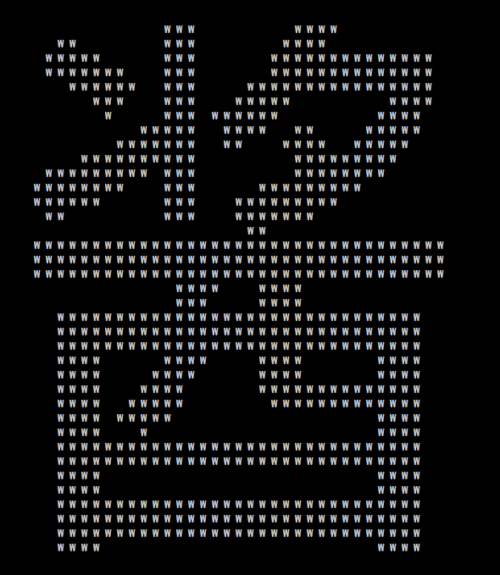
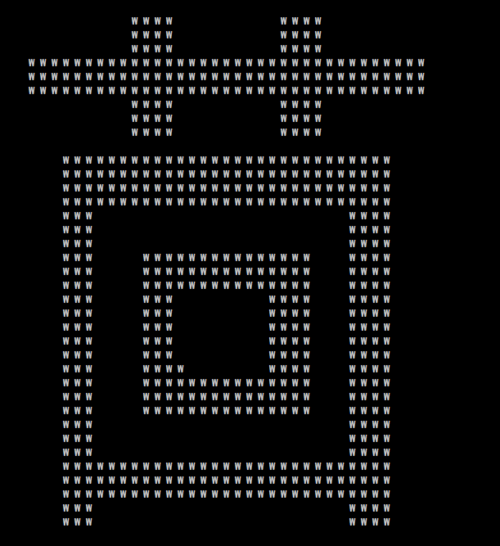
change demo

Changed region(s): [[0.06, 0.0311, 0.9, 0.9652]]

diff --git a/zh2emoji.py b/zh2emoji.py
@@ -62,9 +62,9 @@ if __name__ == '__main__':
     对于emoji表情, 可能跟终端的打印方式有关, 对比后自行决定后面需不需要加上空格填充;
     对于中文,输出正好
     '''
-    print image2print(word2image(u'酱'), u'W ')
-    print image2print(word2image(u'酱'), u'❤ ')
-    print image2print(word2image(u'酱'), u'酱', width=40)
+    print image2print(word2image(u'茴'), u'W ')
+    print image2print(word2image(u'茴'), u'❤ ')
+    print image2print(word2image(u'茴'), u'茴', width=40)
     print image2print(word2image(u'狗'), u'🐶 ')
     print image2print(word2image(u'熊'), u'🐻 ')
     print image2print(word2image(u'色'), u'😍 ')

diff --git a/README.md b/README.md
@@ -1,22 +1,17 @@
-### 介绍
+### 介绍 `zh2emoji`可以将一个汉字，在终端输出成由emoji表情组成的该字。 emoji表情可以自己随意定制: ❤  🐀  🐂  🐅  🐇  🐶  🐱  🐻  ...  
+也可以将emoji表情替换成ASCII,或者单个汉字,或者其他(Just Try It)
 
-`zh2emoji`可以将一个中文字，在终端输出成由emoji表情组成的该字。
+比如执行以下几行代码, 使用不同的填充方法显示来展示"茴"字:
 
-emoji表情可以自己随意定制: ❤  🐀  🐂  🐅  🐇  🐶  🐱  🐻  ...
-
-也可以将emoji表情替换成ASCII,或者中文,或者其他(Just Try It)
-
-比如执行以下几行代码, 使用不同的填充方法显示来展示"酱"字:
-
-    print image2print(word2image(u'酱'), u'❤ ')
-    print image2print(word2image(u'酱'), u'W ')
-    print image2print(word2image(u'酱'), u'酱', width=40)
+    print image2print(word2image(u'茴'), u'❤ ')
+    print image2print(word2image(u'茴'), u'W ')
+    print image2print(word2image(u'茴'), u'茴', width=40)
 
 其中, 对于ascii 建议后面多一个空格填充;
 
 对于emoji表情, 可能跟终端的打印方式有关, 对比后自行决定后面需不需要加上空格填充;
 
-对于中文,输出正好.
+对于汉字,输出正好.
 
 输出结果如下:
 
@@ -26,8 +21,8 @@ emoji表情可以自己随意定制: ❤  🐀  🐂  🐅  🐇  🐶  🐱 
 
 更多输出:
 
-![image](images/dog_500.png)
 ![image](images/beer_500.png)
+![image](images/ku_500.png)
 
 ## 扩展
 
